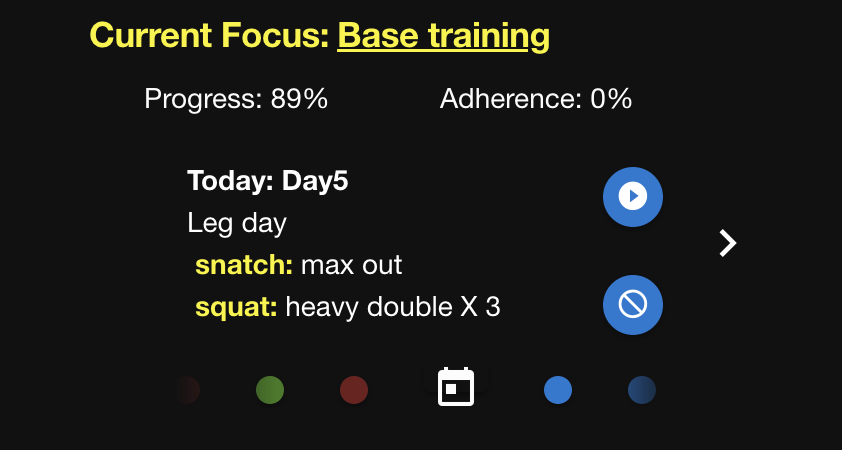
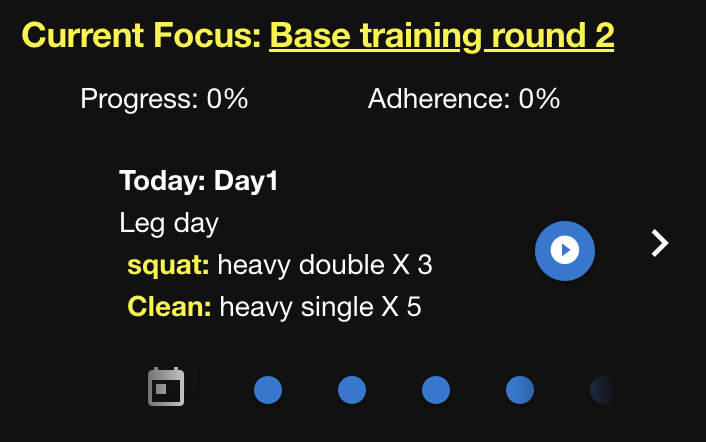
remove cancel button from program dash
didn't make sense -- can just wait until tomorrow for it to be automatically cancelled

diff --git a/frontend/src/components/WorkoutAgent.vue b/frontend/src/components/WorkoutAgent.vue
@@ -82,14 +82,6 @@
     }
   };
 
-  const skipWorkout = (outstandingIndex) => {
-    currentInstance.events[
-      props.dayIndex - (slides.value.length - 1 - outstandingIndex)
-    ] = '';
-
-    updateProgramInstance(currentInstance);
-  };
-
   watch(
     () => selectedEvent.value,
     (newID) => {
@@ -152,21 +144,6 @@
                   slide != props.dayIndex ||
                   currentInstance.events[slide] != undefined ||
                   slides[slide].restDay
-                "
-              />
-              <q-btn
-                round
-                color="primary"
-                icon="do_not_disturb"
-                :disable="
-                  slide > props.dayIndex ||
-                  currentInstance.events[slide] != undefined ||
-                  slides[slide].restDay
-                "
-                @Click="
-                  () => {
-                    skipWorkout(slide);
-                  }
                 "
               />
             </div>

diff --git a/frontend/src/style.module.css b/frontend/src/style.module.css
@@ -536,7 +536,7 @@ header .hgHamburger {
 
 .buttonArray {
   composes: horiz;
-  justify-content: space-between;
+  justify-content: center;
   composes: blockPadSm;
 }
 

diff --git a/docs/mkdocs/src/instances.md b/docs/mkdocs/src/instances.md
@@ -63,10 +63,6 @@ You can use this method to start a workout only on the day that the workout occu
    <br/>The program dash now shows that today's workout has been completed.
    <br/><img src="../img/pgminst_dash_done.png" width="350"/>
 
-## Cancel a workout
-
-If you know you won't be able to perform today's workout, you can immediately cancel it to mark it as not performed. Either cancel it immediately or merely wait until tomorrow. Past workouts are automatically cancelled if they are not associated with a logged workout.
-
 ## Link to an existing workout
 
 Link a logged workout that you [added ad-hoc](track.md#log-a-workout) to a workout in your program instance. After linking, the scheduled workout will be marked as complete.
